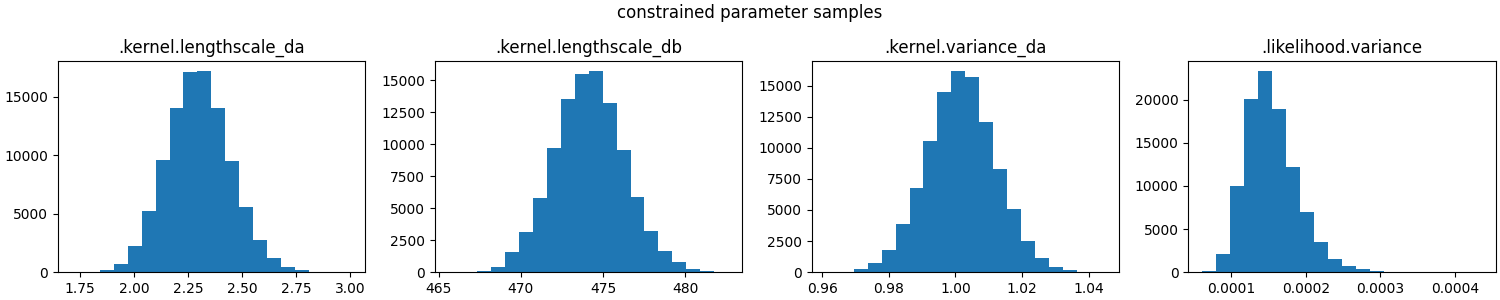
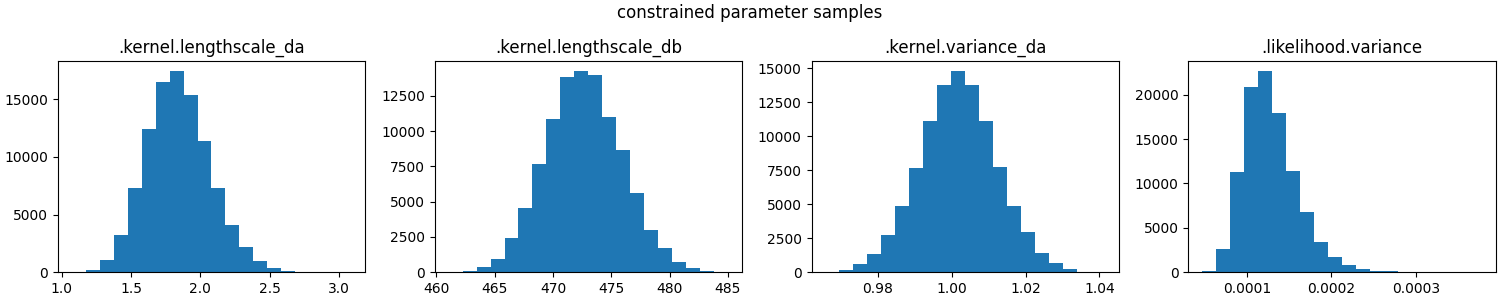
add volume calculation

diff --git a/HandGP/main_ChouTalalay2.py b/HandGP/main_ChouTalalay2.py
@@ -60,14 +60,29 @@ B_max = np.max(Dose_B)
 print(A_max)
 print(B_max)
 
-alphaA, betaA = compute_prior_hyperparameters(A_max/2, 0.1*A_max)
-alphaB, betaB = compute_prior_hyperparameters(B_max, 0.1*B_max)
+eff_max_a = np.max(Effect_A)
+eff_max_b = np.max(Effect_B)
+
+eff_min_a = np.min(Effect_A)
+eff_min_b = np.min(Effect_B)
+
+eff_max = np.max(Effect)
+
+print(eff_max)
+
+c_a = eff_max_a/eff_min_a
+c_b = eff_max_b /eff_min_b
+
+
+
+alphaA, betaA = compute_prior_hyperparameters(A_max, 0.1*A_max/c_a)
+alphaB, betaB = compute_prior_hyperparameters(B_max, 0.1*B_max/c_b)
 
 eff_max_a = np.max(Effect_A)
 eff_max_b = np.max(Effect_B)
 eff_max = np.max([eff_max_a, eff_max_b])
 
-alpha_var, beta_var = compute_prior_hyperparameters(eff_max/2, 0.1*eff_max)
+alpha_var, beta_var = compute_prior_hyperparameters(eff_max, 0.1*eff_max)
 
 print(eff_max)
 print(0.1*eff_max)
@@ -90,7 +105,7 @@ c_b = eff_max_b /eff_min_b
 print(c_a)
 print(c_b)
 
-exit()
+
 
 zeros_A = np.zeros((Dose_A.shape))
 zeros_B = np.zeros((Dose_B.shape))
@@ -332,7 +347,7 @@ plt.savefig('figures/ChouTalalay2/'+str(drug_name)+'_GP_mean'+'.png', bbox_inche
 
 fig, ax = plt.subplots(figsize=(6,6))
 #ax.set_aspect('equal')
-v = np.linspace(-0.06, 0.42, 10, endpoint=True)
+v = np.linspace(-0.2, 0.42, 10, endpoint=True)
 fig.subplots_adjust(left=0.15, bottom=0.15, right=0.95, top=0.8)
 #cf = ax.contourf(Dose_A.flatten(), Dose_B.flatten(),Y_expected_Hand - mean_full,cmap='RdYlGn')
 cf = ax.contourf(np.log(Dose_A.flatten()/np.array(m.kernel.lengthscale_da.value())+1), np.log(Dose_B.flatten()/np.array(m.kernel.lengthscale_db.value())+1),Y_expected_Hand - mean_full,v,cmap='RdYlGn')

diff --git a/HandGP/main_greco.py b/HandGP/main_greco.py
@@ -196,6 +196,8 @@ mean2_full, Cov2_full = m_full.predict_f(Xnew2)
 mean2_full = np.asarray(mean2_full)
 Cov2_full = np.asarray(Cov2_full)
 
+
+
 mean_full_est = pd.DataFrame(mean2_full.reshape(Xi.shape))
 Cov_full_est = pd.DataFrame(Cov2_full.reshape(Xi.shape))
 
@@ -300,9 +302,17 @@ Y2 = data[data['Dose_A']==0]['Effect'].to_numpy().reshape(-1,1).astype(float)
 Y_expected_Hand = fit_Hand(X1, X2, dim2_A, dim2_B, Dose_A, Dose_B)
 Y_expected_Hand_check = fit_Hand(X2, X1, dim2_B, dim2_A, Dose_B, Dose_A)
 
-
 mean_full, Cov_full = predict_in_observations(X1, X2, m_full)
 
+[Xi, Xj] = np.meshgrid(X1,X2)
+
+xyz_full = np.concatenate((Xi.reshape(-1,1), Xj.reshape(-1,1), mean_full.reshape(-1,1)),axis=1)
+Volume_full = trapezoidal_area(xyz_full)
+
+xyz_null = np.concatenate((Xi.reshape(-1,1), Xj.reshape(-1,1), Y_expected_Hand.reshape(-1,1)),axis=1)
+Volume_null = trapezoidal_area(xyz_null)
+
+print('Volume difference', Volume_null-Volume_full)
 
 xv, yv = np.meshgrid(X1, X2)
 result = np.concatenate((xv.reshape(-1,1), yv.reshape(-1,1), (Y_expected_Hand - mean_full).reshape(-1,1)), axis = 1)

diff --git a/HandGP/main_ChouTalalay.py b/HandGP/main_ChouTalalay.py
@@ -47,12 +47,27 @@ Effect_A = df[df['Conc.ADPr'] == 0]['FracInhib'].to_numpy().reshape(-1,1).astype
 Dose_A = df[df['Conc.ADPr']==0]['Conc.ADP'].to_numpy().reshape(-1,1).astype(float)
 Dose_B = df[df['Conc.ADP']==0]['Conc.ADPr'].to_numpy().reshape(-1,1).astype(float)
 
+
+
+eff_max_a = np.max(Effect_A)
+eff_max_b = np.max(Effect_B)
+
+eff_min_a = np.min(Effect_A)
+eff_min_b = np.min(Effect_B)
+
+eff_max = np.max(Effect)
+
+print(eff_max)
+
+c_a = eff_max_a/eff_min_a
+c_b = eff_max_b /eff_min_b
+
 # hyperparameters of the priors
 A_max  = np.max(Dose_A)
 B_max = np.max(Dose_B)
 
-alphaA, betaA = compute_prior_hyperparameters(A_max, 0.01*A_max)
-alphaB, betaB = compute_prior_hyperparameters(B_max, 0.01*B_max)
+alphaA, betaA = compute_prior_hyperparameters(A_max, 0.1*A_max/c_a)
+alphaB, betaB = compute_prior_hyperparameters(B_max, 0.1*B_max/c_b)
 
 eff_max_a = np.max(Effect_A)
 eff_max_b = np.max(Effect_B)

diff --git a/HandGP/main_LA_synergy.py b/HandGP/main_LA_synergy.py
@@ -232,8 +232,7 @@ Volume_full = trapezoidal_area(xyz_full)
 xyz_null = np.concatenate((Xi.reshape(-1,1), Xj.reshape(-1,1), Y_expected_Hand.reshape(-1,1)),axis=1)
 Volume_null = trapezoidal_area(xyz_null)
 
-#print(Volume_null, Volume_full)
-#print(Volume_full-Volume_null)
+print('Volume difference', Volume_full-Volume_null)
 
 xx_a = np.linspace(np.min(Dose_A), np.max(Dose_A), dim2_A.shape[0]).reshape(-1,1)
 xx_b = np.linspace(np.min(Dose_B), np.max(Dose_B), dim2_B.shape[0]).reshape(-1,1)

diff --git a/MuSyC/main_ChouTalalay2_musyc.py b/MuSyC/main_ChouTalalay2_musyc.py
@@ -182,7 +182,7 @@ plt.savefig('figures/ChouTalalay2/Surface_null_musyc_ChouTalalay2.png', bbox_inc
     pad_inches = 0)
 
 fig, ax = plt.subplots(figsize=(6,6))
-v = np.linspace(-0.06, 0.42, 10, endpoint=True)
+v = np.linspace(-0.2, 0.42, 10, endpoint=True)
 fig.subplots_adjust(left=0.15, bottom=0.15, right=0.95, top=0.8)
 cf = ax.contourf(Dose_AA.flatten(), Dose_BB.flatten(), (model.E(Dose_A, Dose_B) - Effect_AB).flatten().reshape(6,6),v, cmap='RdYlGn')
 cbar = fig.colorbar(cf, ax=ax)

diff --git a/HandGP/main_LA_antagonism.py b/HandGP/main_LA_antagonism.py
@@ -262,8 +262,9 @@ Volume_full = trapezoidal_area(xyz_full)
 xyz_null = np.concatenate((Xi.reshape(-1,1), Xj.reshape(-1,1), Y_expected_Hand.reshape(-1,1)),axis=1)
 Volume_null = trapezoidal_area(xyz_null)
 
-#print(Volume_null, Volume_full)
-#print(Volume_full-Volume_null)
+print('Volume difference', Volume_full-Volume_null)
+
+exit()
 
 xv, yv = np.meshgrid(X1, X2)
 #result = np.concatenate((xv.reshape(-1,1), yv.reshape(-1,1), (Y_expected_Hand - mean_full).reshape(-1,1)), axis = 1)
